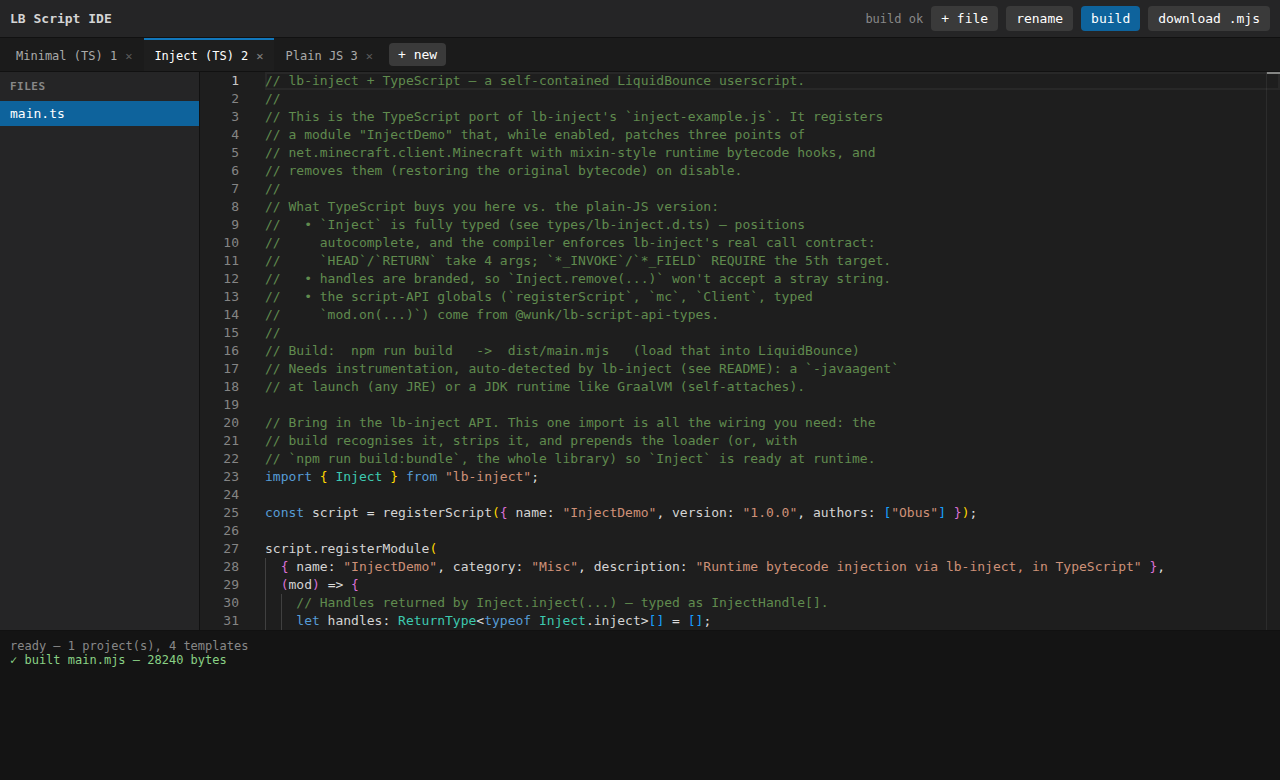
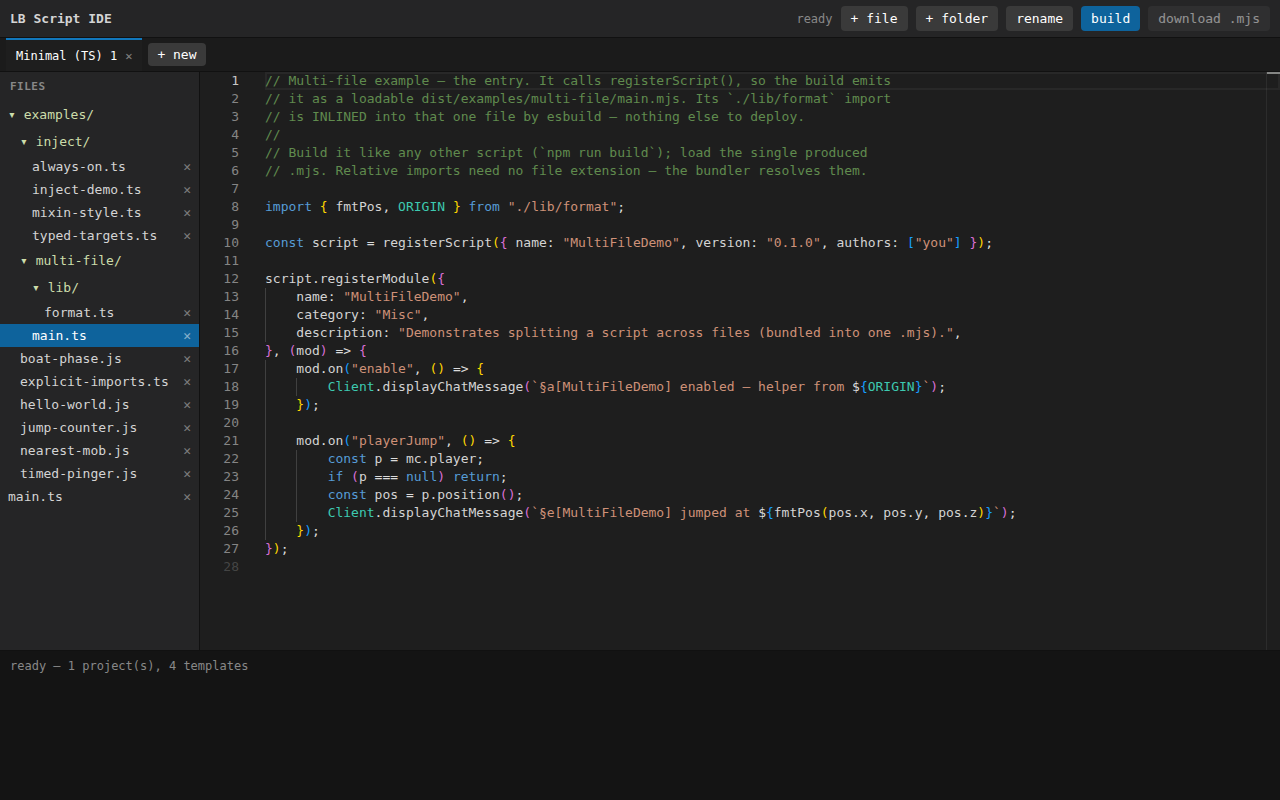
Multi-file projects: folder tree UI (create/delete files+folders), full template src trees, moduleDetection force

diff --git a/app/public/main.js b/app/public/main.js
@@ -46,7 +46,9 @@ const uid = () => "p-" + Math.random().toString(36).slice(2, 8) + Date.now().toS
 // ---------------------------------------------------------------- monaco cfg
 function configureTS(defaults, isJs) {
   const t = monaco.languages.typescript;
-  defaults.setCompilerOptions({ target: t.ScriptTarget.ES2022, module: t.ModuleKind.ESNext, moduleResolution: t.ModuleResolutionKind.NodeJs, lib: ["es2023"], types: ["@wunk/lb-script-api-types/ambient"], strict: true, skipLibCheck: true, allowNonTsExtensions: true, noEmit: true, ...(isJs ? { allowJs: true, checkJs: true } : {}) });
+  // moduleDetection: Force (3) — every file is its own module, so the many
+  // example files don't collide in a shared global scope (matches the templates).
+  defaults.setCompilerOptions({ target: t.ScriptTarget.ES2022, module: t.ModuleKind.ESNext, moduleResolution: t.ModuleResolutionKind.NodeJs, moduleDetection: 3, lib: ["es2023"], types: ["@wunk/lb-script-api-types/ambient"], strict: true, skipLibCheck: true, allowNonTsExtensions: true, noEmit: true, ...(isJs ? { allowJs: true, checkJs: true } : {}) });
   defaults.setExtraLibs(baseExtraLibs);
   defaults.setEagerModelSync(true);
 }
@@ -65,18 +67,69 @@ function ensureModel(path) {
 }
 function openFile(path) { proj.active = path; editor.setModel(ensureModel(path)); renderFiles(); scheduleSave(); }
 
+const collapsed = new Set(); // folder paths the user has collapsed (per session)
+
+// Build a nested tree from file paths + any explicitly-created empty folders.
+function buildTree() {
+  const root = { dirs: new Map(), files: [] };
+  const ensureDir = (parts) => { let n = root; let acc = ""; for (const p of parts) { acc = acc ? acc + "/" + p : p; if (!n.dirs.has(p)) n.dirs.set(p, { path: acc, dirs: new Map(), files: [] }); n = n.dirs.get(p); } return n; };
+  for (const f of proj.folders || []) ensureDir(f.split("/").filter(Boolean));
+  for (const path of Object.keys(proj.files)) { const parts = path.split("/"); const file = parts.pop(); const dir = ensureDir(parts); dir.files.push({ name: file, path }); }
+  return root;
+}
+function deleteFile(path) {
+  delete proj.files[path]; const m = models.get(path); if (m) { m.dispose(); models.delete(path); }
+  if (proj.active === path) proj.active = Object.keys(proj.files)[0] || null;
+  if (proj.active) openFile(proj.active); else { editor.setModel(null); renderFiles(); }
+  scheduleSave();
+}
+function deleteFolder(folderPath) {
+  for (const p of Object.keys(proj.files)) if (p === folderPath || p.startsWith(folderPath + "/")) { delete proj.files[p]; const m = models.get(p); if (m) { m.dispose(); models.delete(p); } }
+  proj.folders = (proj.folders || []).filter((f) => f !== folderPath && !f.startsWith(folderPath + "/"));
+  if (proj.active && !proj.files[proj.active]) proj.active = Object.keys(proj.files)[0] || null;
+  if (proj.active) openFile(proj.active); else { editor.setModel(null); renderFiles(); }
+  scheduleSave();
+}
+function addFileAt(dirPath) {
+  const rel = prompt("New file" + (dirPath ? " in " + dirPath : "") + " (e.g. util.ts or lib/util.ts):"); if (!rel) return;
+  const path = (dirPath ? dirPath + "/" : "") + rel.replace(/^\/+/, "");
+  if (path in proj.files) return openFile(path);
+  proj.files[path] = langFor(path) === "javascript" ? "// @ts-check\n" : "";
+  collapsed.delete(dirPath); openFile(path);
+}
+function addFolderAt(dirPath) {
+  const rel = prompt("New folder" + (dirPath ? " in " + dirPath : "") + ":"); if (!rel) return;
+  const path = (dirPath ? dirPath + "/" : "") + rel.replace(/^\/+|\/+$/g, "");
+  proj.folders = proj.folders || []; if (!proj.folders.includes(path)) proj.folders.push(path);
+  collapsed.delete(dirPath); renderFiles(); scheduleSave();
+}
+
 function renderFiles() {
   const wrap = $("files"); wrap.innerHTML = "";
-  for (const path of Object.keys(proj.files).sort()) {
-    const row = document.createElement("div"); row.className = "file" + (path === proj.active ? " active" : "");
-    const name = document.createElement("span"); name.textContent = path; name.onclick = () => openFile(path); row.appendChild(name);
-    if (Object.keys(proj.files).length > 1) {
-      const x = document.createElement("span"); x.className = "x"; x.textContent = "✕";
-      x.onclick = (e) => { e.stopPropagation(); delete proj.files[path]; const m = models.get(path); if (m) { m.dispose(); models.delete(path); } if (proj.active === path) proj.active = Object.keys(proj.files)[0]; if (proj.active) openFile(proj.active); else renderFiles(); scheduleSave(); };
-      row.appendChild(x);
+  const tree = buildTree();
+  const render = (node, depth) => {
+    const pad = (d) => "calc(" + d + " * 12px + 8px)";
+    for (const [name, dir] of [...node.dirs.entries()].sort((a, b) => a[0].localeCompare(b[0]))) {
+      const isCol = collapsed.has(dir.path);
+      const row = document.createElement("div"); row.className = "file folder"; row.style.paddingLeft = pad(depth);
+      const label = document.createElement("span"); label.className = "fname"; label.textContent = (isCol ? "▸ " : "▾ ") + name + "/";
+      label.onclick = () => { if (isCol) collapsed.delete(dir.path); else collapsed.add(dir.path); renderFiles(); };
+      row.appendChild(label);
+      const acts = document.createElement("span"); acts.className = "acts";
+      const add = document.createElement("span"); add.className = "x add"; add.textContent = "＋"; add.title = "new file in " + dir.path; add.onclick = (e) => { e.stopPropagation(); addFileAt(dir.path); };
+      const del = document.createElement("span"); del.className = "x"; del.textContent = "✕"; del.title = "delete folder"; del.onclick = (e) => { e.stopPropagation(); if (confirm("Delete folder " + dir.path + " and its files?")) deleteFolder(dir.path); };
+      acts.append(add, del); row.appendChild(acts);
+      wrap.appendChild(row);
+      if (!isCol) render(dir, depth + 1);
     }
-    wrap.appendChild(row);
-  }
+    for (const f of node.files.sort((a, b) => a.name.localeCompare(b.name))) {
+      const row = document.createElement("div"); row.className = "file" + (f.path === proj.active ? " active" : ""); row.style.paddingLeft = pad(depth);
+      const name = document.createElement("span"); name.className = "fname"; name.textContent = f.name; name.onclick = () => openFile(f.path); row.appendChild(name);
+      const x = document.createElement("span"); x.className = "x"; x.textContent = "✕"; x.onclick = (e) => { e.stopPropagation(); deleteFile(f.path); }; row.appendChild(x);
+      wrap.appendChild(row);
+    }
+  };
+  render(tree, 0);
 }
 
 // ---------------------------------------------------------------- projects
@@ -94,7 +147,8 @@ function templateById(tid) { return TEMPLATES.find((t) => t.id === tid) || TEMPL
 async function createProject(templateId, opts = {}) {
   const t = templateById(templateId);
   const n = meta.ids.filter((id) => id.startsWith("p-")).length + 1;
-  proj = { id: uid(), name: opts.name || t.name + " " + n, templateId: t.id, files: JSON.parse(JSON.stringify(t.files)), active: Object.keys(t.files)[0], updatedAt: Date.now() };
+  const entry = "main.ts" in t.files ? "main.ts" : "main.js" in t.files ? "main.js" : Object.keys(t.files)[0];
+  proj = { id: uid(), name: opts.name || t.name + " " + n, templateId: t.id, files: JSON.parse(JSON.stringify(t.files)), folders: [], active: entry, updatedAt: Date.now() };
   meta.ids.push(proj.id); meta.current = proj.id;
   await saveProject(); await saveMeta();
   disposeModels();
@@ -239,7 +293,8 @@ require(["vs/editor/editor.main"], async () => {
 
   $("build").onclick = build;
   $("download").onclick = download;
-  $("addFile").onclick = () => { const name = prompt("New file name (e.g. helper.ts):"); if (!name) return; if (name in proj.files) return openFile(name); proj.files[name] = langFor(name) === "javascript" ? "// @ts-check\n" : ""; openFile(name); };
+  $("addFile").onclick = () => addFileAt("");
+  $("addFolder").onclick = () => addFolderAt("");
   $("rename").onclick = async () => { const n = prompt("Project name:", proj.name); if (!n) return; proj.name = n; await saveProject(); renderTabs(); };
 
   setStatus("ready");
@@ -251,6 +306,9 @@ require(["vs/editor/editor.main"], async () => {
     listProjects: () => meta.ids.slice(),
     current: () => ({ id: proj.id, name: proj.name, templateId: proj.templateId }),
     listFiles: () => Object.keys(proj.files),
+    writeFile: (path, content) => { proj.files[path] = content; openFile(path); },
+    openFile: (path) => openFile(path),
+    diagnosticsFor: async (path) => { const m = ensureModel(path); const gw = await monaco.languages.typescript.getTypeScriptWorker(); const c = await gw(m.uri); const u = m.uri.toString(); const ds = [...(await c.getSyntacticDiagnostics(u)), ...(await c.getSemanticDiagnostics(u))]; return ds.map((d) => ({ code: d.code })); },
     createProject: (tid) => createProject(tid),
     switchProject: (id) => loadProject(id),
     closeProject: (id) => closeProject(id),

diff --git a/app/public/index.html b/app/public/index.html
@@ -34,11 +34,17 @@
     #mid { display:grid; grid-template-columns:200px 1fr; min-height:0; }
     #side { background:var(--bg2); border-right:1px solid #111; overflow:auto; }
     #side h4 { margin:0; padding:8px 10px; font-size:11px; text-transform:uppercase; letter-spacing:.5px; color:#888; }
-    .file { padding:5px 10px; font-size:13px; cursor:pointer; display:flex; justify-content:space-between; gap:6px; }
+    .file { padding:4px 8px; font-size:13px; cursor:pointer; display:flex; align-items:center; justify-content:space-between; gap:6px; }
     .file:hover { background:var(--bg3); }
     .file.active { background:var(--acc); color:#fff; }
+    .file .fname { overflow:hidden; text-overflow:ellipsis; white-space:nowrap; }
+    .file.folder .fname { color:#cda; }
+    .file .acts { display:flex; gap:4px; opacity:0; }
+    .file:hover .acts { opacity:1; }
     .file .x { opacity:.5; }
+    .file:hover > .x { opacity:.5; }
     .file .x:hover { opacity:1; color:var(--err); }
+    .file .x.add:hover { color:var(--ok); }
     #editor { min-width:0; }
     #log { height:150px; background:#141414; border-top:1px solid #111; overflow:auto; padding:8px 10px; font-size:12px; white-space:pre-wrap; }
     #log .e { color:var(--err); }
@@ -54,6 +60,7 @@
       <span class="spacer"></span>
       <span id="status">booting…</span>
       <button id="addFile" class="ghost">+ file</button>
+      <button id="addFolder" class="ghost">+ folder</button>
       <button id="rename" class="ghost">rename</button>
       <button id="build">build</button>
       <button id="download" class="ghost" disabled>download .mjs</button>

diff --git a/app/README.md b/app/README.md
@@ -20,9 +20,12 @@ orchestration / Kubernetes / licensing baggage of the server-side options — se
 
 ```
 ✓ multiple projects in a tab bar, each its own files, persisted independently
-✓ "+ new" template picker, seeded from the real LB templates:
+✓ "+ new" template picker, seeded from the real LB templates (full src/ trees):
     default-ts · plain-js · starter-ts · inject-ts (lb-inject)
-✓ live type-checking + autocomplete (TS and // @ts-check JS)
+✓ multi-file projects with a collapsible FOLDER TREE (create/delete files +
+    folders at any depth); cross-folder ./imports resolve & inline in the build
+✓ live type-checking + autocomplete (TS and // @ts-check JS), moduleDetection
+    forced so the many files don't collide in global scope
 ✓ build → self-contained .mjs, matching the template build conventions:
     · JVM-type value imports  →  Java.type("<fqcn>")
     · `import { Inject } from "lb-inject"`  →  inlined lb-inject runtime